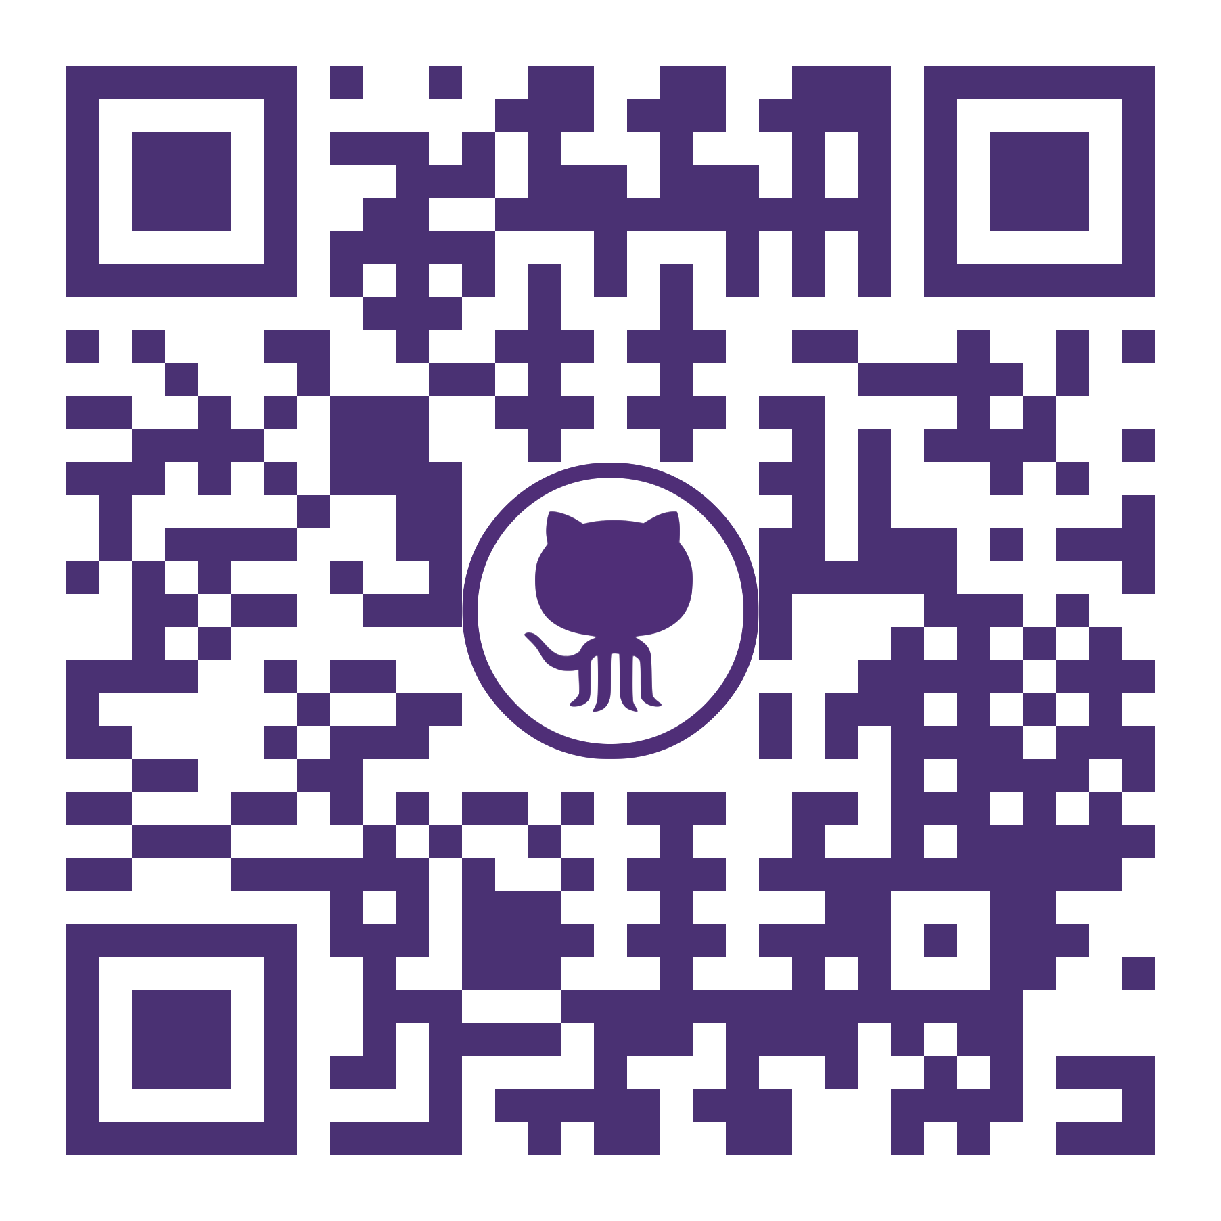
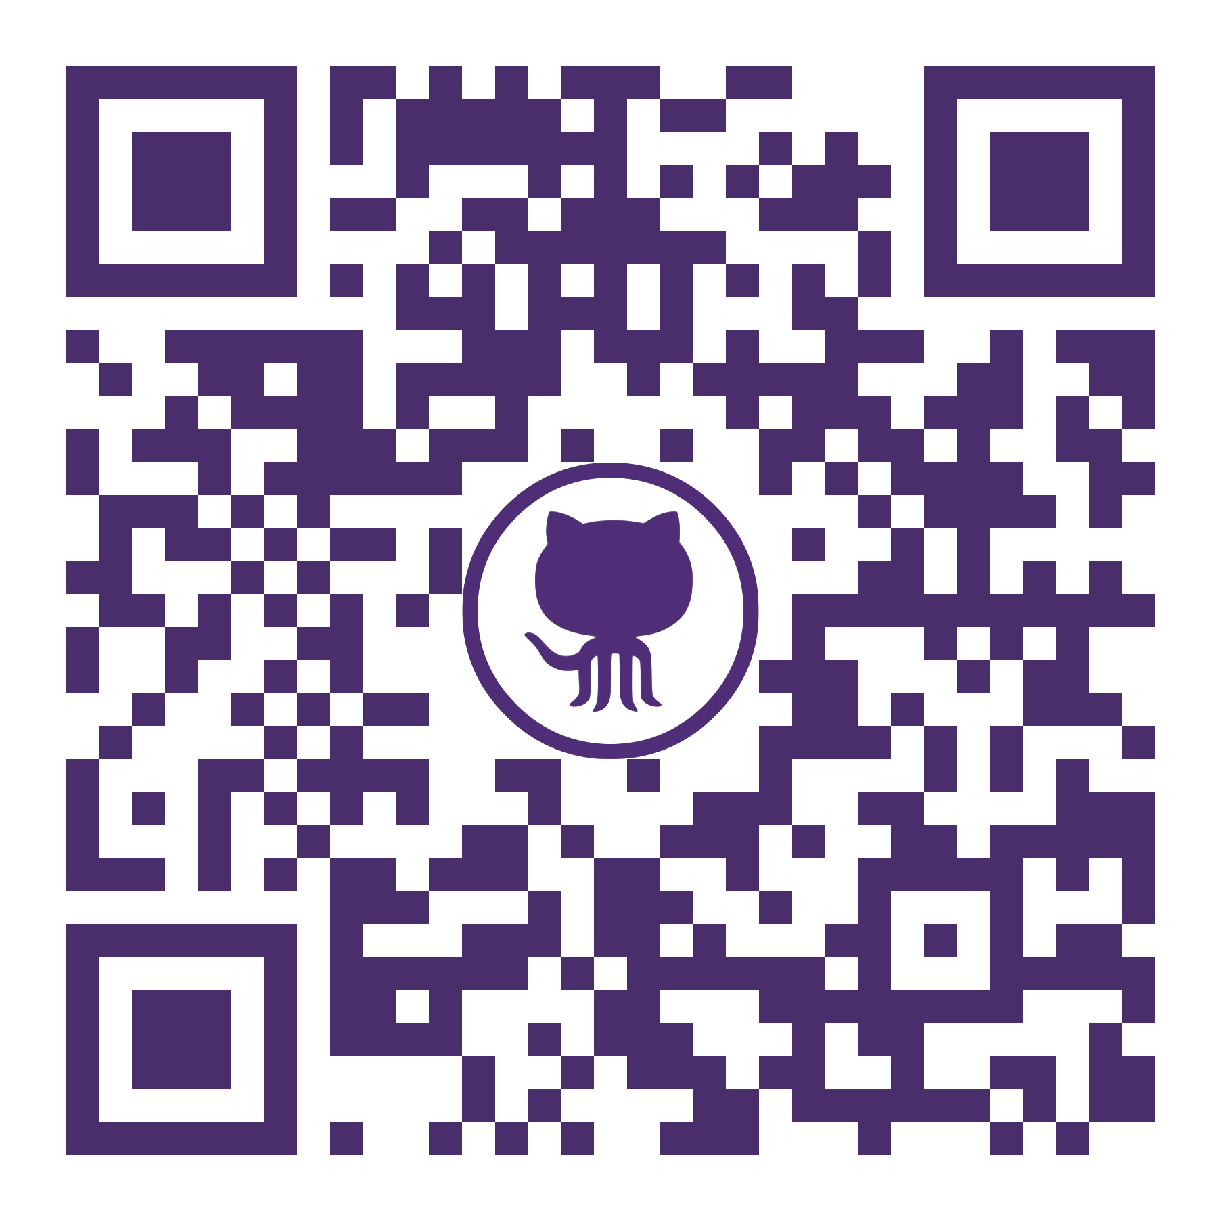
Added byte mode encoding for larger character set

diff --git a/qrCodeCreator/QRGenerator/qrCode.py b/qrCodeCreator/QRGenerator/qrCode.py
@@ -5,7 +5,12 @@ from reedSolomon import ReedSolomon
 """
 Program for creating Version 4 QR Codes with error correction level M
 """
-mode = 'A'
+mode = ""
+#Ask for encoding mode
+while (mode != 'A') and (mode != 'B'):
+    mode = input("Would you like to encode in Alphanumeric mode or Byte mode? A:(0-9 + A-Z) or B:(all ASCII characters) ")
+    mode = mode.upper()
+
 if mode == 'A':
     alphaNumericEncoding = {'0':'0', '1':'1', '2':'2',  '3':'3', '4':'4', '5':'5',
     '6':'6', '7':'7', '8':'8', '9':'9', 'A':'10', 'B':'11', 'C':'12', 'D':'13',
@@ -13,9 +18,6 @@ if mode == 'A':
     'M':'22', 'N':'23', 'O':'24', 'P':'25', 'Q':'26', 'R':'27', 'S':'28', 'T':'29',
     'U':'30', 'V':'31', 'W':'32', 'X':'33', 'Y':'34', 'Z':'35', ' ':'36', '$':'37',
     '%':'38', '*':'39', '+':'40', '-':'41', '.':'42', '/':'43', ':':'44'}
-elif mode == 'B':
-    ### Eventually need to make a byte mode qr encoding to add lowercase characters ###
-    exit()
 
 #Returns hexidecimal values
 hexChart = {'0':0, '1':1, '2':2, '3':3, '4':4, '5':5, '6':6, '7':7, '8':8, '9':9, 'A':10, 'B':11, 'C':12, 'D':13, 'E':14, 'F':15}
@@ -28,7 +30,6 @@ data = ""
 
 #User input
 URL = input("Please enter the string you would like for encoding: ")
-URL = URL.upper()
 URLLength = len(URL)
 
 #Ask to place image in center
@@ -68,73 +69,96 @@ QRColor = []
 for i in range(0, 3):
     QRColor.append(tempColor[2 * i] + tempColor[(2 * i) + 1])
 
-# for i in range(0, 6):
-#     QRColor[i] = hexChart[QRColor[i]]
+#Alphanumeric encoding mode
+if mode == 'A':
 
+    URL = URL.upper()
 
-#Encoding input string
-i = 1
-valueBuffer = []
+    #Encoding input string
+    i = 1
+    valueBuffer = []
 
-#Add alphanumeric values to list
-for char in URL:
-    modules.append(int(alphaNumericEncoding[char]))
+    #Add alphanumeric values to list
+    for char in URL:
+        modules.append(int(alphaNumericEncoding[char]))
 
-#Pair alphanumeric values
-for i in range(0, len(modules) // 2):
-    valueBuffer.append(modules[(2 * i): (2 * (i + 1))])
+    #Pair alphanumeric values
+    for i in range(0, len(modules) // 2):
+        valueBuffer.append(modules[(2 * i): (2 * (i + 1))])
 
-#Check if number of pairs is even or odd
-if len(modules) % 2 == 1:
+    #Check if number of pairs is even or odd
+    if len(modules) % 2 == 1:
 
-    #Append final value for odd length
-    valueBuffer.append(modules[-1])
-    modules.clear()
+        #Append final value for odd length
+        valueBuffer.append(modules[-1])
+        modules.clear()
 
-    #Convert base 45 number to binary and add to modules list
-    for i in range(0, len(valueBuffer) - 1):
-        temp = bin((valueBuffer[i][0] * 45) + valueBuffer[i][1])[2:]
+        #Convert base 45 number to binary and add to modules list
+        for i in range(0, len(valueBuffer) - 1):
+            temp = bin((valueBuffer[i][0] * 45) + valueBuffer[i][1])[2:]
 
-        #Pad value pairs
-        while len(temp) < 11:
+            #Pad value pairs
+            while len(temp) < 11:
+                temp = '0' + temp
+            modules.append(temp)
+
+        #Pad lone value
+        temp = bin(valueBuffer[-1])[2:]
+        while len(temp) < 6:
             temp = '0' + temp
         modules.append(temp)
 
-    #Pad lone value
-    temp = bin(valueBuffer[-1])[2:]
-    while len(temp) < 6:
-        temp = '0' + temp
-    modules.append(temp)
+    #If even number of values
+    else:
+        modules.clear()
 
-#If even number of values
-else:
-    modules.clear()
+        #Convert base 45 number to binary and add to modules list
+        for pair in valueBuffer:
+            temp = bin((pair[0] * 45) + pair[1])[2:]
+            while len(temp) < 11:
+                temp = '0' + temp
+            modules.append(temp)
 
-    #Convert base 45 number to binary and add to modules list
-    for pair in valueBuffer:
-        temp = bin((pair[0] * 45) + pair[1])[2:]
-        while len(temp) < 11:
+    #Identify string length and format it to fit 9 bit block
+    if URLLength > 90:
+        print("""The desired link is too long for QR Code version 4.
+         Please consider using a link shortener...""")
+        quit()
+    else:
+        URLLength = bin(URLLength)[2:]
+        while len(URLLength) < 9:
+            URLLength = '0' + URLLength
+
+    #Identify encoding mode for QR Code
+    encodingMode = "0010"
+
+#Byte encoding mode
+elif mode == 'B':
+    for char in URL:
+        temp = bin(ord(char))[2:]
+        while len(temp) < 8:
             temp = '0' + temp
         modules.append(temp)
 
-#Identify encoding mode for QR code
-alphaNumericMode = "0010"
+    #Identify encoding mode for QR Code
+    encodingMode = "0100"
+
+    #Identify string length and format it to fit 9 bit block
+    if URLLength > 62:
+        print("""The desired link is too long for QR Code version 4.
+         Please consider using a link shortener...""")
+        quit()
+    else:
+        URLLength = bin(URLLength)[2:]
+        while len(URLLength) < 8:
+            URLLength = '0' + URLLength
+
 
 #Required number of bits for Version 4-M QR Code
 requiredBits = 512
 
-#Identify string length and format it to fit 9 bit block
-if URLLength > 90:
-    print("""The desired link is too long for QR Code version 4.
-     Please consider using a link shortener...""")
-    quit()
-else:
-    URLLength = bin(URLLength)[2:]
-    while len(URLLength) != 9:
-        URLLength = '0' + URLLength
-
 #Add encoded data from array to form single string
-data = alphaNumericMode + URLLength
+data = encodingMode + URLLength
 for block in modules:
     data += block
 
